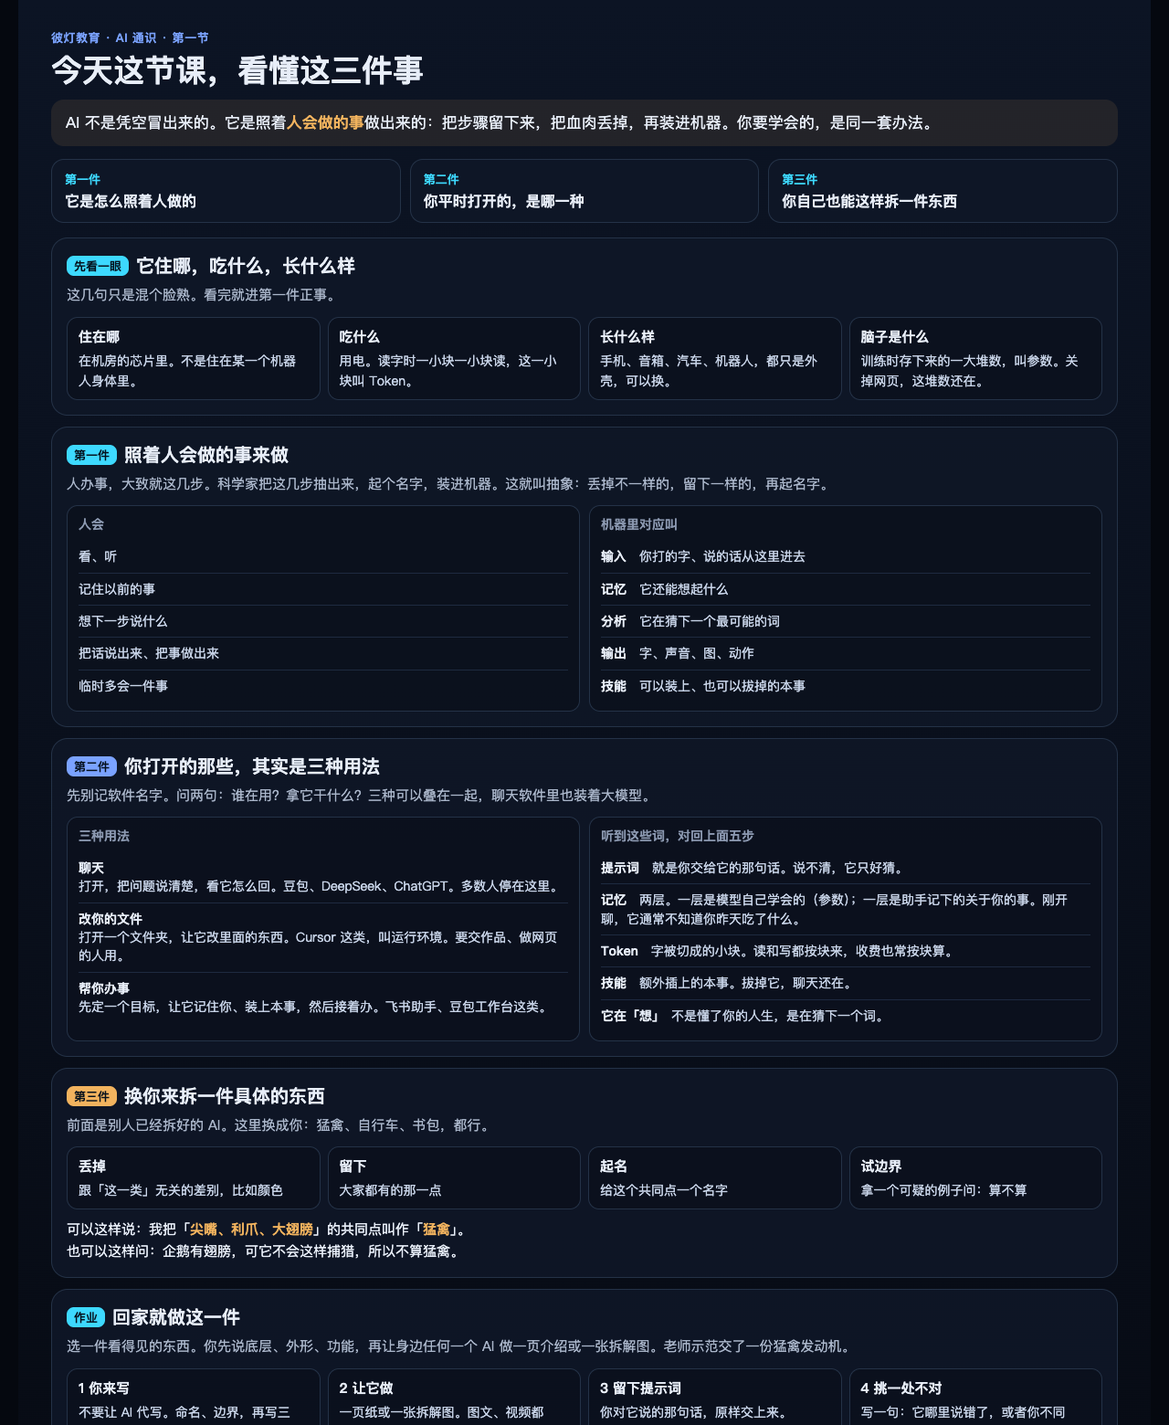
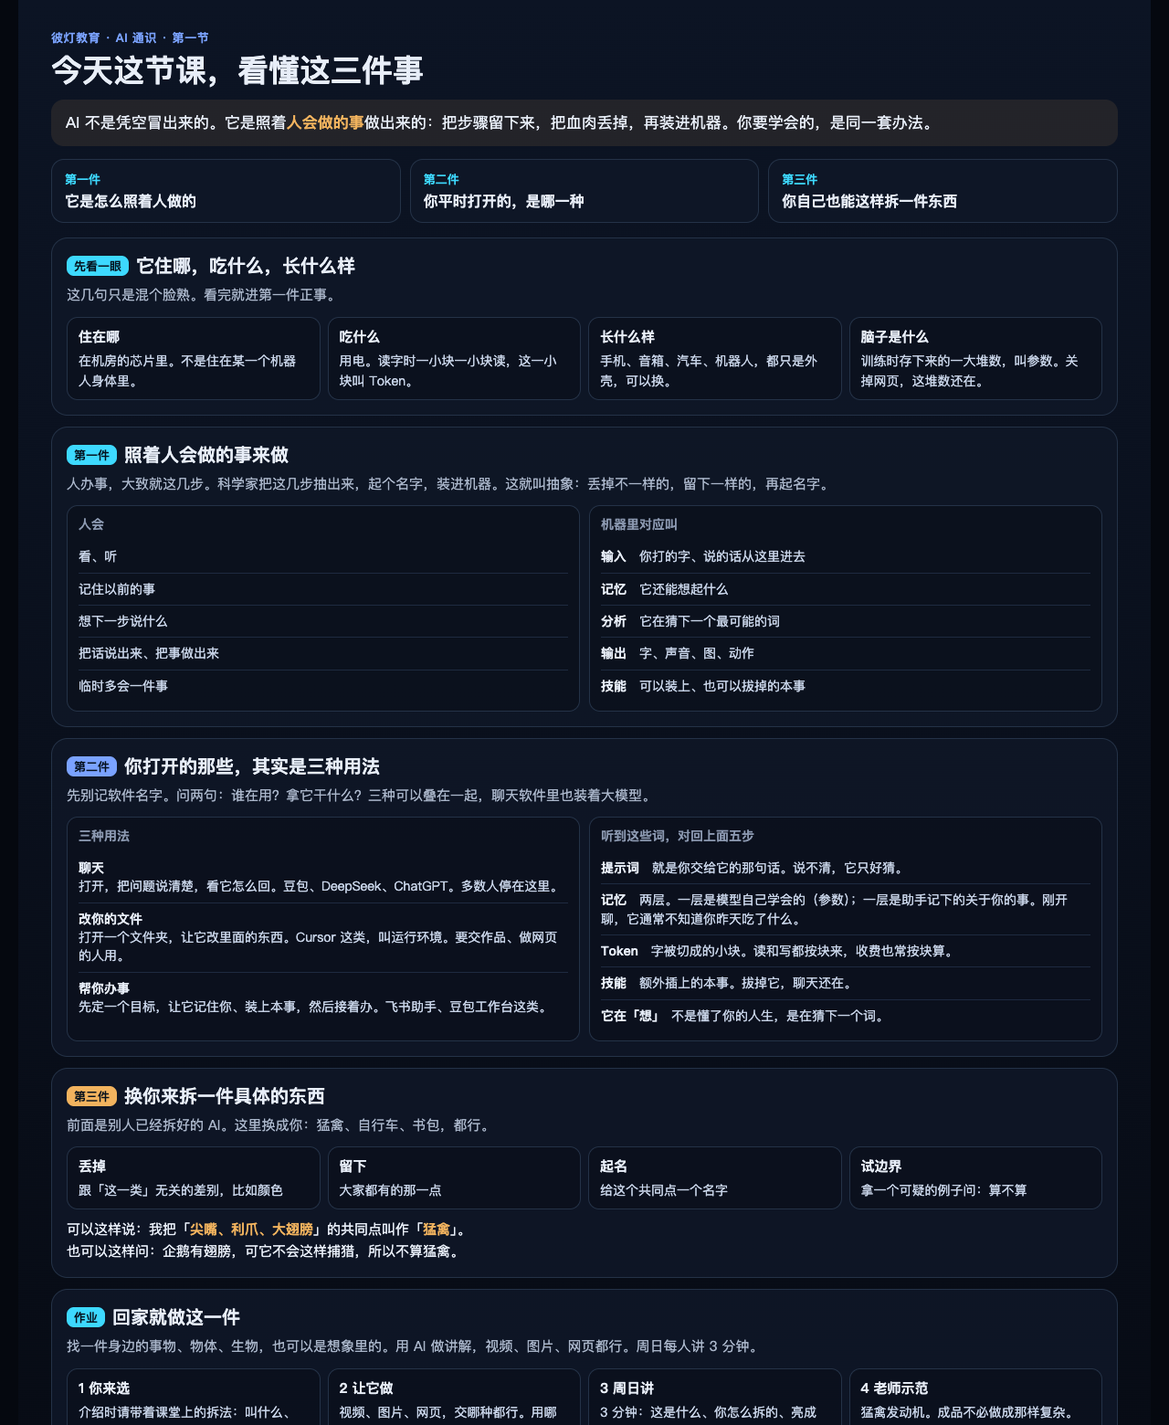
周日动手课改成先讲作业再装技能：每人 3 分钟介绍，后半用新工具自学。

Changed region(s): [[0.0938, 0.9231, 0.9062, 1.0], [0.0625, 0.9846, 0.25, 1.0]]

diff --git a/literacy/course/17-m1-online-hour2-plan.html b/literacy/course/17-m1-online-hour2-plan.html
@@ -1,0 +1,195 @@
+<!DOCTYPE html>
+<html lang="zh-CN">
+<head>
+<meta charset="UTF-8">
+<meta name="viewport" content="width=device-width, initial-scale=1">
+<title>M1 第二节 · 周日 2 小时线上动手 · 教师方案</title>
+<style>
+  :root{
+    --bg:#060A13;--paper:#0F1726;--ink:#E7EEF9;--ink2:#AAB6CA;--muted:#6F7C93;
+    --line:#1E2A40;--accent:#3DD9FF;--warm:#F2B35E;--ok:#3EE08F;--bad:#FF6B7A;--blue:#7AA2FF;
+    --font:"PingFang SC","Hiragino Sans GB","Noto Sans SC",system-ui,sans-serif;
+    --mono:ui-monospace,"SF Mono",Menlo,Consolas,monospace;
+  }
+  *{box-sizing:border-box;margin:0;padding:0}
+  html,body{background:var(--bg);color:var(--ink);font-family:var(--font);-webkit-font-smoothing:antialiased}
+  a{color:var(--accent)}
+  .page{width:min(1100px,100% - 32px);margin:28px auto 80px}
+  .kick{font-size:12px;font-weight:800;letter-spacing:.16em;color:var(--accent)}
+  h1{font-size:clamp(28px,4vw,40px);font-weight:900;line-height:1.2;margin:8px 0 10px}
+  h2{font-size:20px;margin:0 0 10px}
+  h2 i{display:inline-block;font-style:normal;font-size:12px;font-weight:800;color:#04101C;background:var(--accent);border-radius:8px;padding:2px 8px;margin-right:8px;vertical-align:2px}
+  .lead{font-size:16px;line-height:1.65;color:var(--ink2);max-width:48em;margin-bottom:18px}
+  .lead b{color:var(--ink)}
+  .meta{display:grid;grid-template-columns:repeat(4,1fr);gap:10px;margin-bottom:18px}
+  .meta div,.card{border:1px solid var(--line);border-radius:16px;background:rgba(14,22,38,.92)}
+  .meta div{padding:12px 14px}
+  .meta b{display:block;font-size:12px;color:var(--muted);margin-bottom:4px}
+  .meta span{font-size:15px;font-weight:800;line-height:1.4}
+  .card{padding:16px 18px;margin-bottom:14px}
+  .goal,.yesno,.three,.talk{display:grid;gap:10px}
+  .goal,.yesno{grid-template-columns:1fr 1fr}
+  .three,.talk{grid-template-columns:repeat(3,1fr)}
+  .goal div,.yesno div,.three div,.talk div,.feishu div,.box{border:1px solid var(--line);border-radius:12px;padding:12px 14px;background:rgba(0,0,0,.22)}
+  .goal b,.talk b,.three b{display:block;color:var(--warm);margin-bottom:6px}
+  .yesno ul{list-style:none}
+  .yesno li{padding:7px 0;border-bottom:1px solid #1E2A40;font-size:14.5px;line-height:1.5;color:var(--ink2)}
+  .yesno li:last-child{border-bottom:0}
+  .yesno h3{font-size:13px;margin-bottom:6px}
+  .ok h3{color:var(--ok)} .no h3{color:var(--bad)}
+  table{width:100%;border-collapse:collapse;font-size:14px}
+  th,td{border-bottom:1px solid var(--line);padding:9px 8px;vertical-align:top;line-height:1.5;text-align:left}
+  th{font-size:12px;color:var(--muted)}
+  td:first-child{font:800 12px var(--mono);color:var(--accent);white-space:nowrap;width:88px}
+  td b{color:var(--ink)}
+  .feishu{display:grid;grid-template-columns:repeat(4,1fr);gap:8px;margin-top:8px}
+  .feishu b{display:block;font-size:13px;color:var(--blue);margin-bottom:4px}
+  .feishu span,.three span,.talk p,.box p{font-size:13.5px;color:var(--ink2);line-height:1.5}
+  .tiny{font-size:13px;color:var(--muted);line-height:1.5;margin-top:8px}
+  pre{white-space:pre-wrap;font:13px/1.55 var(--mono);background:#0B1222;border:1px solid var(--line);border-radius:12px;padding:14px 16px;color:var(--ink);margin-top:10px}
+  footer{margin-top:8px;font-size:13px;color:var(--muted);display:flex;justify-content:space-between;gap:12px;flex-wrap:wrap}
+  @media (max-width:860px){
+    .meta,.goal,.yesno,.three,.talk,.feishu{grid-template-columns:1fr}
+    td:first-child{white-space:normal}
+  }
+</style>
+</head>
+<body>
+<div class="page">
+  <div class="kick">彼灯教育 · AI 通识初阶 · M1 抽象 · 第二节草案</div>
+  <h1>周日 2 小时：先讲你的东西，再学会用新工具自学</h1>
+  <p class="lead">作业已经布置出去：找一件身边的事物、物体、生物，也可以是想象里的东西。用 AI 做讲解，视频、图片、网页都行，形式不限。周日每人讲 3 分钟。<b>课就从这场介绍开始。</b>后半再给新工具和技能，让大家能用 AI 去自学一个自己还不熟的东西。</p>
+
+  <div class="meta">
+    <div><b>节次</b><span>M1 第二节 · 线上动手</span></div>
+    <div><b>时长</b><span>120 分钟 · 飞书会议</span></div>
+    <div><b>人数</b><span>按 8–12 人排全员 3 分钟</span></div>
+    <div><b>状态</b><span>方案草案 · 先拍板再做学生课件</span></div>
+  </div>
+
+  <section class="card">
+    <h2><i>1</i>学完能做什么</h2>
+    <div class="goal">
+      <div><b>当场能看出来</b><p>能用 3 分钟讲清自己选的那件东西：它是什么、你怎么拆的、AI 做了哪一部分。下半场能换一个自己还不熟的东西，用新工具或技能再学一层，并说出学到了什么。</p></div>
+      <div><b>差一档的样子</b><p>只播一段 AI 视频，自己说不出它凭什么这样工作。或者工具介绍听完了，仍然只会说「帮我介绍一下」。</p></div>
+    </div>
+    <p class="tiny">这一堂只钉一件事：作业证明你会「让 AI 做一个介绍」。后半要会「用 AI 去学一个新东西」。</p>
+  </section>
+
+  <section class="card">
+    <h2><i>2</i>3 分钟怎么讲</h2>
+    <p class="tiny" style="margin-bottom:10px">形式不限，但介绍时请带着第一节的拆法。老师听的是这三块，不是画面漂不漂亮。</p>
+    <div class="talk">
+      <div><b>0–30 秒 · 这是什么</b><p>名字。为什么选它。看得见的外形，一句话。</p></div>
+      <div><b>30 秒–2 分 · 你怎么拆的</b><p>它凭什么这样工作。算不算这一类。哪几句是你自己写的，不是 AI 代写的。</p></div>
+      <div><b>2–3 分 · 亮成品</b><p>播放或打开 AI 做的图、视频、网页。用了哪个工具。你哪里觉得它说得不对，或者还可以再问。</p></div>
+    </div>
+    <p class="tiny">超时切麦。没做完的，3 分钟里讲你拆到哪一步、卡在哪，也算一次介绍。</p>
+  </section>
+
+  <section class="card">
+    <h2><i>3</i>120 分钟怎么走</h2>
+    <p class="tiny" style="margin-bottom:10px">默认 10 人。8 人提前进入后半。超过 12 人：先在群里贴作品，抽 8 人讲满 3 分钟，其余 60 秒亮成品。</p>
+    <table>
+      <thead><tr><th>时间</th><th>孩子在干什么</th><th>飞书用什么</th></tr></thead>
+      <tbody>
+        <tr><td>0:00</td><td><b>进门 8 分钟。</b>投票：视频 / 图片 / 网页 / 还没做完。投屏计时器。每人报一个词：我介绍的是 ___。</td><td>投票 + 聊天区</td></tr>
+        <tr><td>0:08</td><td><b>介绍 3 分钟 × 人数。</b>按名单轮。老师只记两笔：用了哪类工具、有没有自己的拆法。不点评画面。</td><td>共享屏幕 + 计时 + 点名开麦</td></tr>
+        <tr><td>0:45</td><td><b>老师收口 5 分钟。</b>刚才听到三种：把活全丢给 AI；自己先拆再让它做；做完还挑了一处。点出后半要往第三种走。</td><td>共享屏幕</td></tr>
+        <tr><td>0:50</td><td><b>休息 8 分钟。</b>会议不停。</td><td>—</td></tr>
+        <tr><td>0:58</td><td><b>工具认路 12 分钟。</b>把作业用过的入口贴回三格：出图、出视频、出网页。每种只指一个，不教按钮。</td><td>共享屏幕 + 聊天区：我下次想换哪一种</td></tr>
+        <tr><td>1:10</td><td><b>技能是什么 12 分钟。</b>第一节只认识「可装卸」。今天真贴上一个：先逼你说清，再帮你讲解。老师对照：没技能乱讲 vs 有技能先问五句。</td><td>共享屏幕</td></tr>
+        <tr><td>1:22</td><td><b>动手自学 26 分钟。</b>选一个自己还不熟的新东西（作业的下一层也行，比如介绍了猫，现在学猫耳怎么工作）。用新工具或刚贴的技能，做出一小段讲解。</td><td>进度口头报：定了题目 / 贴了技能 / 出了一稿</td></tr>
+        <tr><td>1:48</td><td><b>两人对照 + 三问。</b>抽两人，各 1 分钟：新学了什么。再抽两人做三问：你做了什么 / AI 做了什么 / 你质疑过什么。</td><td>点名开麦</td></tr>
+        <tr><td>1:58</td><td><b>散场。</b>家长一句。下次才把规矩写进长期助手。</td><td>—</td></tr>
+      </tbody>
+    </table>
+  </section>
+
+  <section class="card">
+    <h2><i>4</i>后半介绍哪些工具</h2>
+    <p class="tiny" style="margin-bottom:10px">不新开一门软件课。只让人看见：作业里用过的，其实落在不同格子。想换一种成品，就换一个入口。</p>
+    <div class="three">
+      <div><b>出图 · 聊天格子</b><span>豆包、ChatGPT 出图，即梦做更细的图。适合还停在「一张介绍图」的人。</span></div>
+      <div><b>出视频 · 还是聊天格子</b><span>可灵、即梦视频。把分镜写成几句，再交给它。适合已经有图、想变成能播的人。</span></div>
+      <div><b>出网页 · 运行环境</b><span>Cursor 这类。它能改真实文件，不是只回一张图。适合想做一页能点的介绍的人。</span></div>
+    </div>
+    <p class="tiny">每种只演示 3 分钟：同一个「雨伞」题目，三种入口各出一版开头。让他们看见差别，不让他们记步骤。</p>
+  </section>
+
+  <section class="card">
+    <h2><i>5</i>今天要真装上的技能</h2>
+    <p class="tiny">技能 = 可反复使用的拆法。不是新模型。贴上它，换一个不熟的东西，它还会先逼你说清，再帮你讲。</p>
+    <pre>你在帮一个同学把一件东西讲明白。
+
+开始前必须先问清这五句，缺一句就停，不要自己编：
+1. 我把「___」的共同点叫作「___」
+2. 只要是___就算；一旦___就不算
+3. 它凭什么这样工作
+4. 长什么样
+5. 能干什么
+
+如果对方说「我不知道」，一次只问一个问题，帮他找，不要替他写完。
+
+五句齐了，再按他选的形式做：一段话 / 一张图的分镜 / 一页网页的结构。
+
+做完必须列出两处：可能说错的地方、他还没拆开的零件。让他自己核对。</pre>
+    <p class="tiny">豆包 / ChatGPT：贴进自定义指令或「先发这段再提问」。Cursor：存成一个 Skill 文件。现场两种都指一下，学生用自己打得开的那种。</p>
+  </section>
+
+  <section class="card">
+    <h2><i>6</i>自学新东西怎么选</h2>
+    <div class="goal">
+      <div><b>好题目</b><p>作业的下一层。介绍过猫，就自学猫耳或猫瞳。介绍过雨伞，就自学防水布怎么不漏。想象中的东西，就自学它要遵守哪条真实世界的规矩。</p></div>
+      <div><b>不好的题目</b><p>再做一遍同一件东西的漂亮海报。换皮不换问题，不算自学。</p></div>
+    </div>
+  </section>
+
+  <section class="card">
+    <h2><i>7</i>飞书上具体怎么动</h2>
+    <div class="feishu">
+      <div><b>投票</b><span>进门：视频 / 图片 / 网页 / 还没做完。</span></div>
+      <div><b>聊天区</b><span>介绍前报物件名。后半报：下次想换哪一种工具；新题目是什么。</span></div>
+      <div><b>共享屏幕</b><span>介绍时孩子共享成品。后半老师共享工具对照和技能对照。</span></div>
+      <div><b>云文档</b><span>一人一行：物件、成品链接、用的工具、3 分钟后记下的新题目。</span></div>
+    </div>
+  </section>
+
+  <section class="card">
+    <h2><i>8</i>现场会卡的地方</h2>
+    <table>
+      <thead><tr><th>情况</th><th>怎么接</th></tr></thead>
+      <tbody>
+        <tr><td>超时还在播视频</td><td>到点切麦。问一句：哪一句是你自己的拆法？答得出就算讲完。</td></tr>
+        <tr><td>没做作业</td><td>3 分钟讲你选了什么、拆到哪、卡在哪。后半跟大家一起自学。</td></tr>
+        <tr><td>只播不讲</td><td>暂停。先让他说外形和功能，再准播。</td></tr>
+        <tr><td>工具演示变成教软件</td><td>每种入口只出「雨伞」的前 10 秒。问差别，不讲菜单。</td></tr>
+        <tr><td>打不开新工具</td><td>继续用早上那个 AI，只贴技能那段。工具换不了，拆法能换。</td></tr>
+        <tr><td>新题目仍是同一件东西</td><td>追问：你还不懂它的哪一块？那一块才是新题目。</td></tr>
+      </tbody>
+    </table>
+  </section>
+
+  <section class="card">
+    <h2><i>9</i>收口给家长的一句</h2>
+    <p>今天孩子介绍了自己选的一件东西，并开始用 AI 学它还不懂的下一层。</p>
+    <p class="tiny">今晚可以问他：你介绍的是什么？后来新学了它的哪一块？</p>
+  </section>
+
+  <section class="card">
+    <h2><i>10</i>拍板后再做的东西</h2>
+    <ul style="margin:8px 0 0 1.2em;color:var(--ink2);line-height:1.7">
+      <li>投屏计时器 + 3 分钟结构（这是什么 / 你怎么拆 / 亮成品）</li>
+      <li>雨伞同一题、三种工具各一版的对照页</li>
+      <li>可复制的技能文本（豆包指令 + Cursor 的 Skill 文件）</li>
+      <li>8 分钟补课录屏：技能怎么贴、新题目怎么选</li>
+    </ul>
+  </section>
+
+  <footer>
+    <span>前半：每人 3 分钟介绍作业。后半：新工具认路，真装一个技能去自学。</span>
+    <span>示范卷仍可当老师的 3 分钟样例：<a href="17-m1-hw-demo.html">猛禽发动机</a></span>
+  </footer>
+</div>
+</body>
+</html>

diff --git a/literacy/course/17-m1-online-hour1.html b/literacy/course/17-m1-online-hour1.html
@@ -1804,23 +1804,22 @@ h2{color:#F3F7FD}
 <!-- 26 作业 -->
 <section class="slide" data-t="作业" data-fs="下课前把作业念一遍，再打开示范卷投屏">
   <div><h2>回家就做这一件<span class="en">One thing to hand in</span></h2></div>
-  <p class="lead one-line">选一件看得见的东西。先自己说清楚：它算哪一类、底层怎么工作、长什么样、能干什么。再让身边任何一个 AI 做一页介绍或一张拆解图。</p>
+  <p class="lead one-line">找一件身边的事物、物体、生物，也可以是想象里的东西。用 AI 做一段讲解。视频、图片、网页都行，形式不限。周日每人讲 3 分钟。</p>
   <div class="hw">
-    <div class="card"><b class="n">你来写</b><h4>不要让 AI 代写这几句</h4><p>命名：我把「___」的共同点叫作「___」。<br>边界：只要是___就算；一旦___就不算。<br>再写三句：它凭什么这样工作、长什么样、能干什么。</p></div>
-    <div class="card"><b class="n">让 AI 做</b><h4>一页纸，或一张拆解图</h4><p>图文、拆解图、一小段视频，都行。聊天、改文件、办事的助手，用哪个都行。你对它说的那句话，原样留下。</p></div>
-    <div class="card"><b class="n">交上来</b><h4>三样放在一起</h4><p>① 你写的那几句<br>② 它做出的介绍<br>③ 用的是哪一种工具，外加一句：它哪里说得不对</p></div>
+    <div class="card"><b class="n">你来选</b><h4>一件你想介绍的东西</h4><p>身边的、活的、想象的，都行。介绍时请带着今天的拆法：它叫什么、算不算这一类、凭什么这样工作、长什么样、能干什么。</p></div>
+    <div class="card"><b class="n">让 AI 做</b><h4>讲解给别人看</h4><p>视频、图片、网页，交哪种都行。豆包、ChatGPT、可灵、即梦、Cursor，用哪个都行。</p></div>
+    <div class="card"><b class="n">周日带来</b><h4>每人 3 分钟</h4><p>这是什么 · 你怎么拆的 · 亮成品。老师示范：猛禽发动机。</p></div>
   </div>
   <div class="hw-demo">
-    <span>老师先交了一份猛禽发动机，给你们看交上来长什么样。成品不必这么复杂，一张标了零件的图也算。</span>
+    <span>老师先交了一份猛禽发动机，给你们看介绍可以长什么样。成品不必这么复杂。</span>
     <a href="17-m1-hw-demo.html" target="_blank" rel="noopener">打开示范卷</a>
   </div>
   <aside class="notes">
     <h4>布置</h4>
     <ul>
-      <li>打开示范卷投屏：先念左边自己写的五句，再点开拆解图滑零件，最后念那句挑错。</li>
-      <li>强调第一段必须手写或自己打，不能把句子交给 AI。</li>
-      <li>第二段不限工具：豆包、ChatGPT、可灵、即梦，出图或出视频都算。</li>
-      <li>收作业时先看句子像不像今天的说法，再看成品，最后看那句质疑。</li>
+      <li>强调形式不限，但周日介绍时要能说出自己的拆法，不能只播 AI 视频。</li>
+      <li>打开示范卷投屏，当作 3 分钟样例：先五句，再拆解图，再挑错。</li>
+      <li>工具不限：出图、出视频、出网页都算。</li>
     </ul>
   </aside>
 </section>

diff --git a/tools/m1-figures/deck.template.html b/tools/m1-figures/deck.template.html
@@ -1697,23 +1697,22 @@ h2{color:#F3F7FD}
 <!-- 26 作业 -->
 <section class="slide" data-t="作业" data-fs="下课前把作业念一遍，再打开示范卷投屏">
   <div><h2>回家就做这一件<span class="en">One thing to hand in</span></h2></div>
-  <p class="lead one-line">选一件看得见的东西。先自己说清楚：它算哪一类、底层怎么工作、长什么样、能干什么。再让身边任何一个 AI 做一页介绍或一张拆解图。</p>
+  <p class="lead one-line">找一件身边的事物、物体、生物，也可以是想象里的东西。用 AI 做一段讲解。视频、图片、网页都行，形式不限。周日每人讲 3 分钟。</p>
   <div class="hw">
-    <div class="card"><b class="n">你来写</b><h4>不要让 AI 代写这几句</h4><p>命名：我把「___」的共同点叫作「___」。<br>边界：只要是___就算；一旦___就不算。<br>再写三句：它凭什么这样工作、长什么样、能干什么。</p></div>
-    <div class="card"><b class="n">让 AI 做</b><h4>一页纸，或一张拆解图</h4><p>图文、拆解图、一小段视频，都行。聊天、改文件、办事的助手，用哪个都行。你对它说的那句话，原样留下。</p></div>
-    <div class="card"><b class="n">交上来</b><h4>三样放在一起</h4><p>① 你写的那几句<br>② 它做出的介绍<br>③ 用的是哪一种工具，外加一句：它哪里说得不对</p></div>
+    <div class="card"><b class="n">你来选</b><h4>一件你想介绍的东西</h4><p>身边的、活的、想象的，都行。介绍时请带着今天的拆法：它叫什么、算不算这一类、凭什么这样工作、长什么样、能干什么。</p></div>
+    <div class="card"><b class="n">让 AI 做</b><h4>讲解给别人看</h4><p>视频、图片、网页，交哪种都行。豆包、ChatGPT、可灵、即梦、Cursor，用哪个都行。</p></div>
+    <div class="card"><b class="n">周日带来</b><h4>每人 3 分钟</h4><p>这是什么 · 你怎么拆的 · 亮成品。老师示范：猛禽发动机。</p></div>
   </div>
   <div class="hw-demo">
-    <span>老师先交了一份猛禽发动机，给你们看交上来长什么样。成品不必这么复杂，一张标了零件的图也算。</span>
+    <span>老师先交了一份猛禽发动机，给你们看介绍可以长什么样。成品不必这么复杂。</span>
     <a href="17-m1-hw-demo.html" target="_blank" rel="noopener">打开示范卷</a>
   </div>
   <aside class="notes">
     <h4>布置</h4>
     <ul>
-      <li>打开示范卷投屏：先念左边自己写的五句，再点开拆解图滑零件，最后念那句挑错。</li>
-      <li>强调第一段必须手写或自己打，不能把句子交给 AI。</li>
-      <li>第二段不限工具：豆包、ChatGPT、可灵、即梦，出图或出视频都算。</li>
-      <li>收作业时先看句子像不像今天的说法，再看成品，最后看那句质疑。</li>
+      <li>强调形式不限，但周日介绍时要能说出自己的拆法，不能只播 AI 视频。</li>
+      <li>打开示范卷投屏，当作 3 分钟样例：先五句，再拆解图，再挑错。</li>
+      <li>工具不限：出图、出视频、出网页都算。</li>
     </ul>
   </aside>
 </section>

diff --git a/literacy/course/17-m1-lookup.html b/literacy/course/17-m1-lookup.html
@@ -124,12 +124,12 @@
 
   <section class="card">
     <h2><span>作业</span>回家就做这一件</h2>
-    <p class="note">选一件看得见的东西。你先说底层、外形、功能，再让身边任何一个 AI 做一页介绍或一张拆解图。老师示范交了一份猛禽发动机。</p>
+    <p class="note">找一件身边的事物、物体、生物，也可以是想象里的。用 AI 做讲解，视频、图片、网页都行。周日每人讲 3 分钟。</p>
     <div class="four">
-      <div><b>1 你来写</b><span>不要让 AI 代写。命名、边界，再写三句：它凭什么这样工作、长什么样、能干什么。</span></div>
-      <div><b>2 让它做</b><span>一页纸或一张拆解图。图文、视频都行。用哪个 AI 都行。</span></div>
-      <div><b>3 留下提示词</b><span>你对它说的那句话，原样交上来。</span></div>
-      <div><b>4 挑一处不对</b><span>写一句：它哪里说错了，或者你不同意。</span></div>
+      <div><b>1 你来选</b><span>介绍时请带着课堂上的拆法：叫什么、算不算、凭什么工作、长什么样、能干什么。</span></div>
+      <div><b>2 让它做</b><span>视频、图片、网页，交哪种都行。用哪个 AI 都行。</span></div>
+      <div><b>3 周日讲</b><span>3 分钟：这是什么、你怎么拆的、亮成品。</span></div>
+      <div><b>4 老师示范</b><span>猛禽发动机。成品不必做成那样复杂。</span></div>
     </div>
   </section>
 

diff --git a/literacy/index.html b/literacy/index.html
@@ -18,7 +18,8 @@
   <h1>AI 通识初阶</h1>
   <p>周末课，18 小时，六个模块。和创想营是两套教材。课件目前做到 M1。</p>
   <ul>
-    <li><a href="course/17-m1-online-hour1.html">M1 第一节课件（线上 1 小时，含第二节 2 小时教师附页）</a></li>
+    <li><a href="course/17-m1-online-hour1.html">M1 第一节课件（线上 1 小时）</a></li>
+    <li><a href="course/17-m1-online-hour2-plan.html">M1 第二节方案（周日 2 小时线上动手，草案）</a></li>
     <li><a href="course/16-m1-deck.html">M1 旧版课件</a></li>
     <li><a href="promo/">宣传</a></li>
     <li><a href="students/">学生档案 · 评价与作业</a></li>
